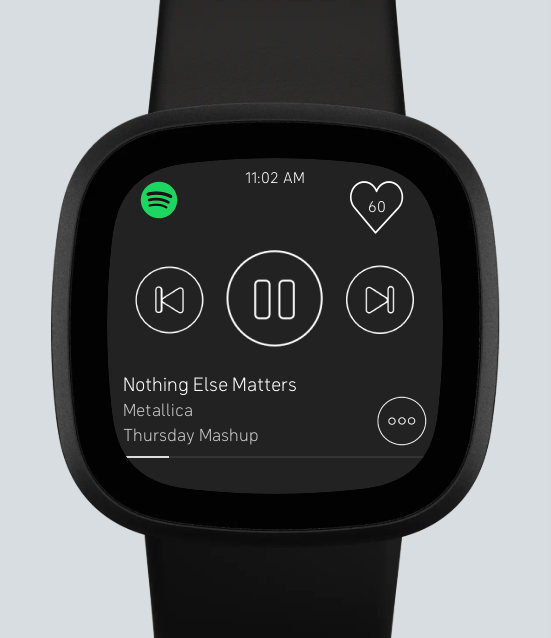
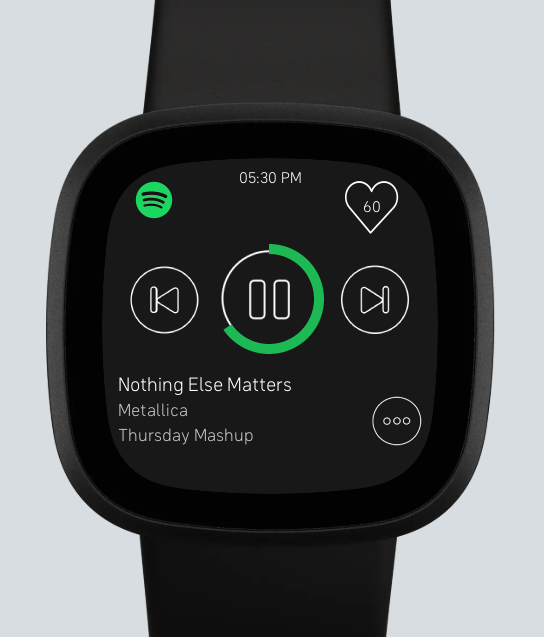
feat: add circular track progress (#2)

diff --git a/app/ui.js b/app/ui.js
@@ -45,8 +45,7 @@ class Ui {
         currentTrackName: document.getElementById('player-current-track-name'),
         currentArtistName: document.getElementById('player-current-artist-name'),
         currentHeartRate: document.getElementById('heart-rate-number'),
-        trackProgressBarContainer: document.getElementById('track-progress-bar-container'),
-        trackProgressBarFill: document.getElementById('track-progress-bar-fill'),
+        trackProgress: document.getElementById('track-progress'),
       },
       playlists: {
         container: document.getElementById('playlists-picker'),
@@ -128,9 +127,7 @@ class Ui {
 
   renderPlayerProgressBar(percent) {
     let elements = this.elements;
-
-    const container = elements.page.player.trackProgressBarContainer;
-    elements.page.player.trackProgressBarFill.width = device.screen.width * Math.min(1, percent || 0);
+    elements.page.player.trackProgress.sweepAngle = 360 * Math.min(1, percent || 0);
   }
 
   renderPlaylistsPage(state) {

diff --git a/resources/styles.css b/resources/styles.css
@@ -86,12 +86,11 @@ rect.button {
   text-overflow: ellipsis;
 }
 
-#track-progress-bar-container {
-  fill: #333333;
-}
-
-#track-progress-bar-fill {
-  fill: #dddddd;
+#track-progress {
+  fill: #1db954;
+  arc-width: 10;
+  start-angle: 0;
+  sweep-angle: 360;
 }
 
 /* Playlist page */
@@ -124,43 +123,6 @@ rect.button {
   font-size: 30;
   text-length: 35;
   text-anchor: middle;
-}
-
-/* Player page */
-
-#heart-rate-number {
-  font-size: 16;
-  text-length: 5;
-  text-anchor: middle;
-}
-
-#player-current-track-name {
-  font-weight: bold;
-  font-size: 20;
-  text-length: 28;
-  text-overflow: ellipsis;
-}
-
-#player-current-artist-name {
-  opacity: 0.75;
-  font-size: 18;
-  text-length: 32;
-  text-overflow: ellipsis;
-}
-
-#player-current-playlist-name {
-  opacity: 0.75;
-  font-size: 18;
-  text-length: 32;
-  text-overflow: ellipsis;
-}
-
-#track-progress-bar-container {
-  fill: #333333;
-}
-
-#track-progress-bar-fill {
-  fill: #dddddd;
 }
 
 /* Volume page */

diff --git a/resources/layout.css b/resources/layout.css
@@ -224,20 +224,11 @@
   height: 50;
 }
 
-#track-progress-bar-container {
-  x: 18;
-  y: 298;
-  width: 300;
-  height: 2;
-  fill: #333333;
-}
-
-#track-progress-bar-fill {
-  x: 18;
-  y: 298;
-  width: 100%;
-  height: 2;
-  fill: #dddddd;
+#track-progress {
+  x: 112;
+  y: 86;
+  width: 110;
+  height: 110;
 }
 
 /**
